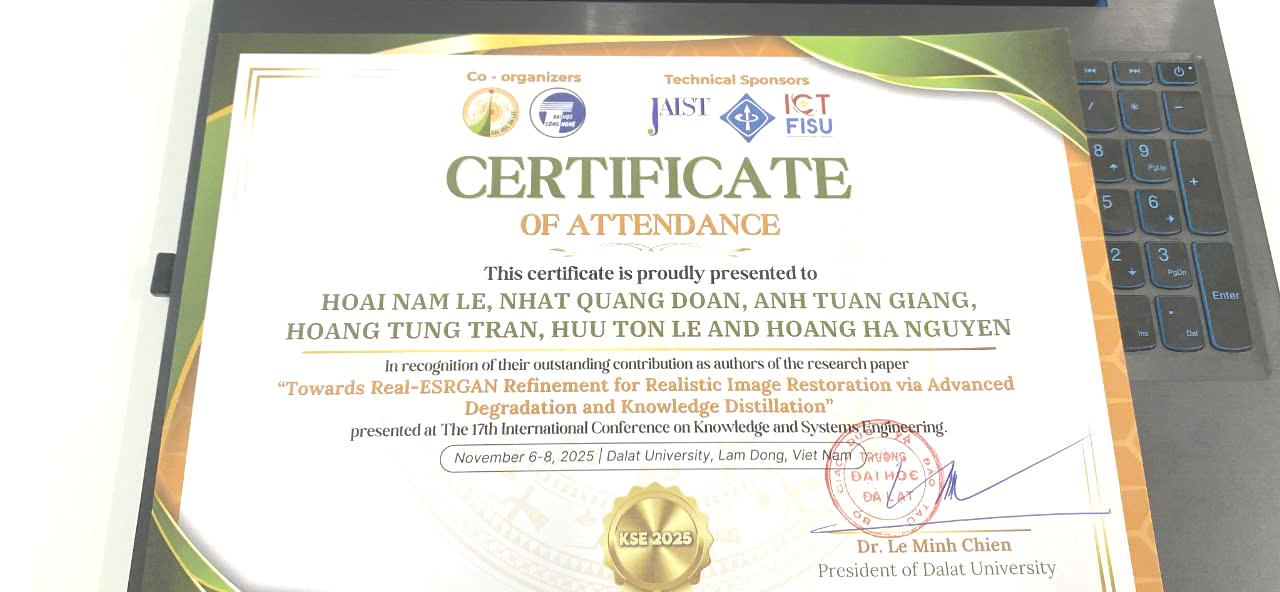
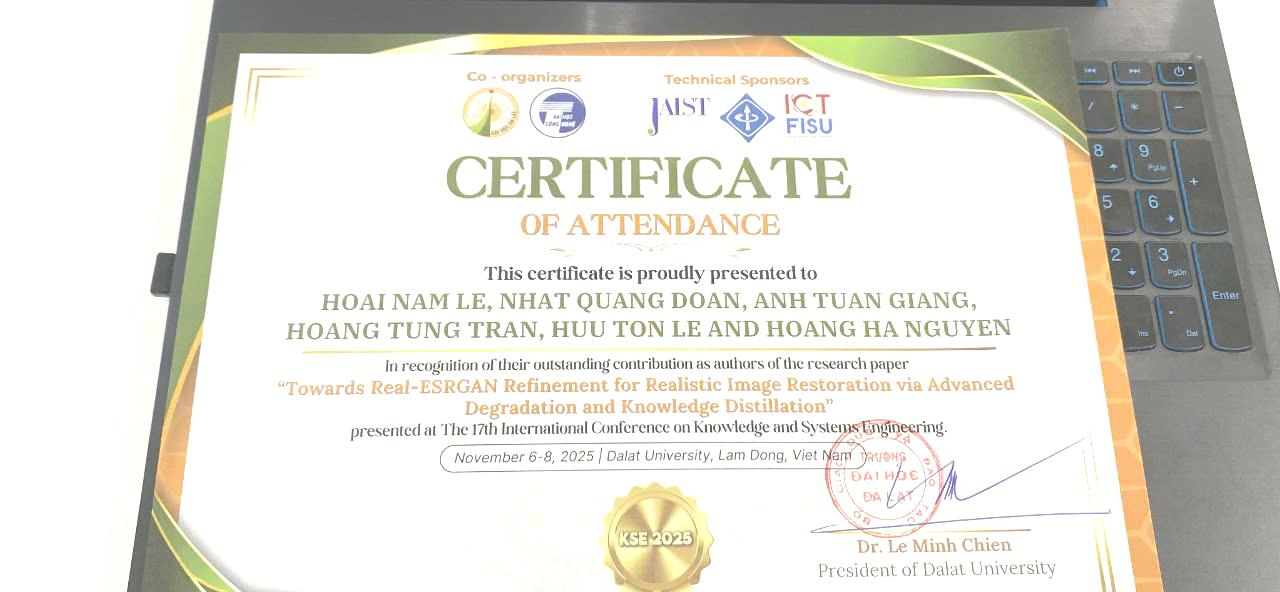
push report

diff --git a/lab6/labwork6.py b/lab6/labwork6.py
@@ -45,8 +45,8 @@ def main():
     h, w, _ = img1.shape
 
     threshold = int(sys.argv[1]) if len(sys.argv)>1 else 128
-    brightness_delta=50
-    blend_c = 0.6
+    brightness_delta=67
+    blend_c = 0.67
 
     img2 = np.ascontiguousarray(np.flip(img1, axis=1))
 
